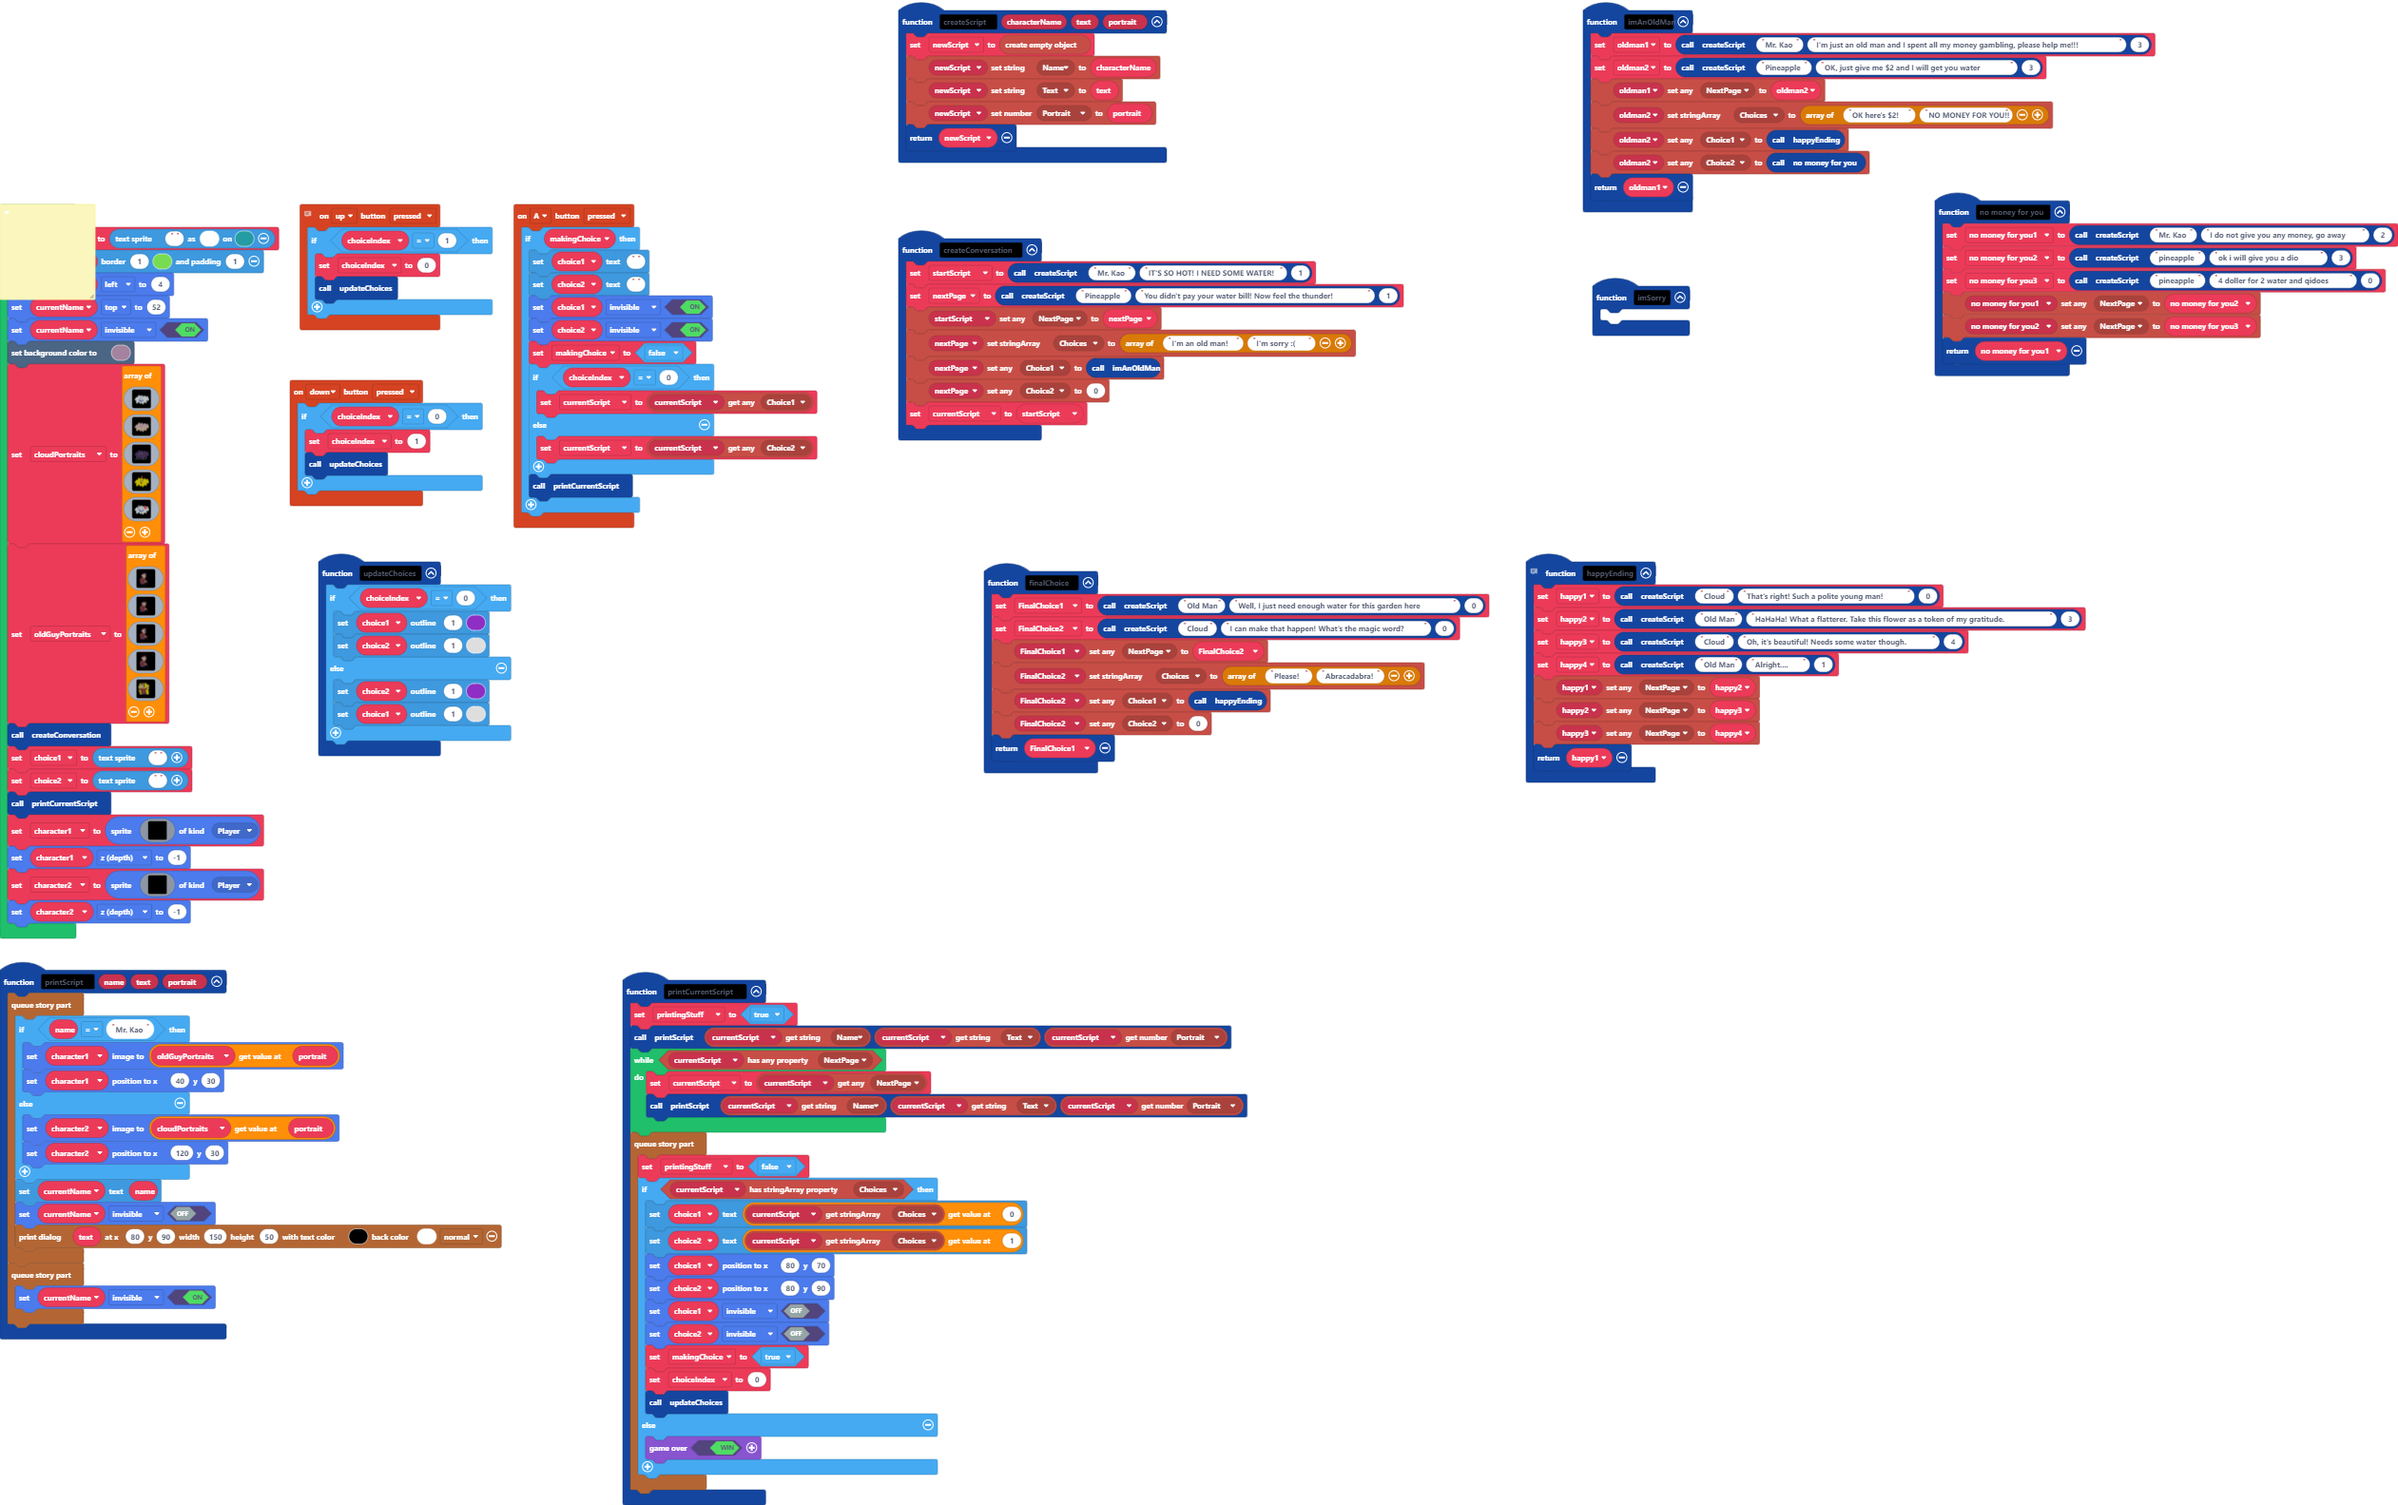
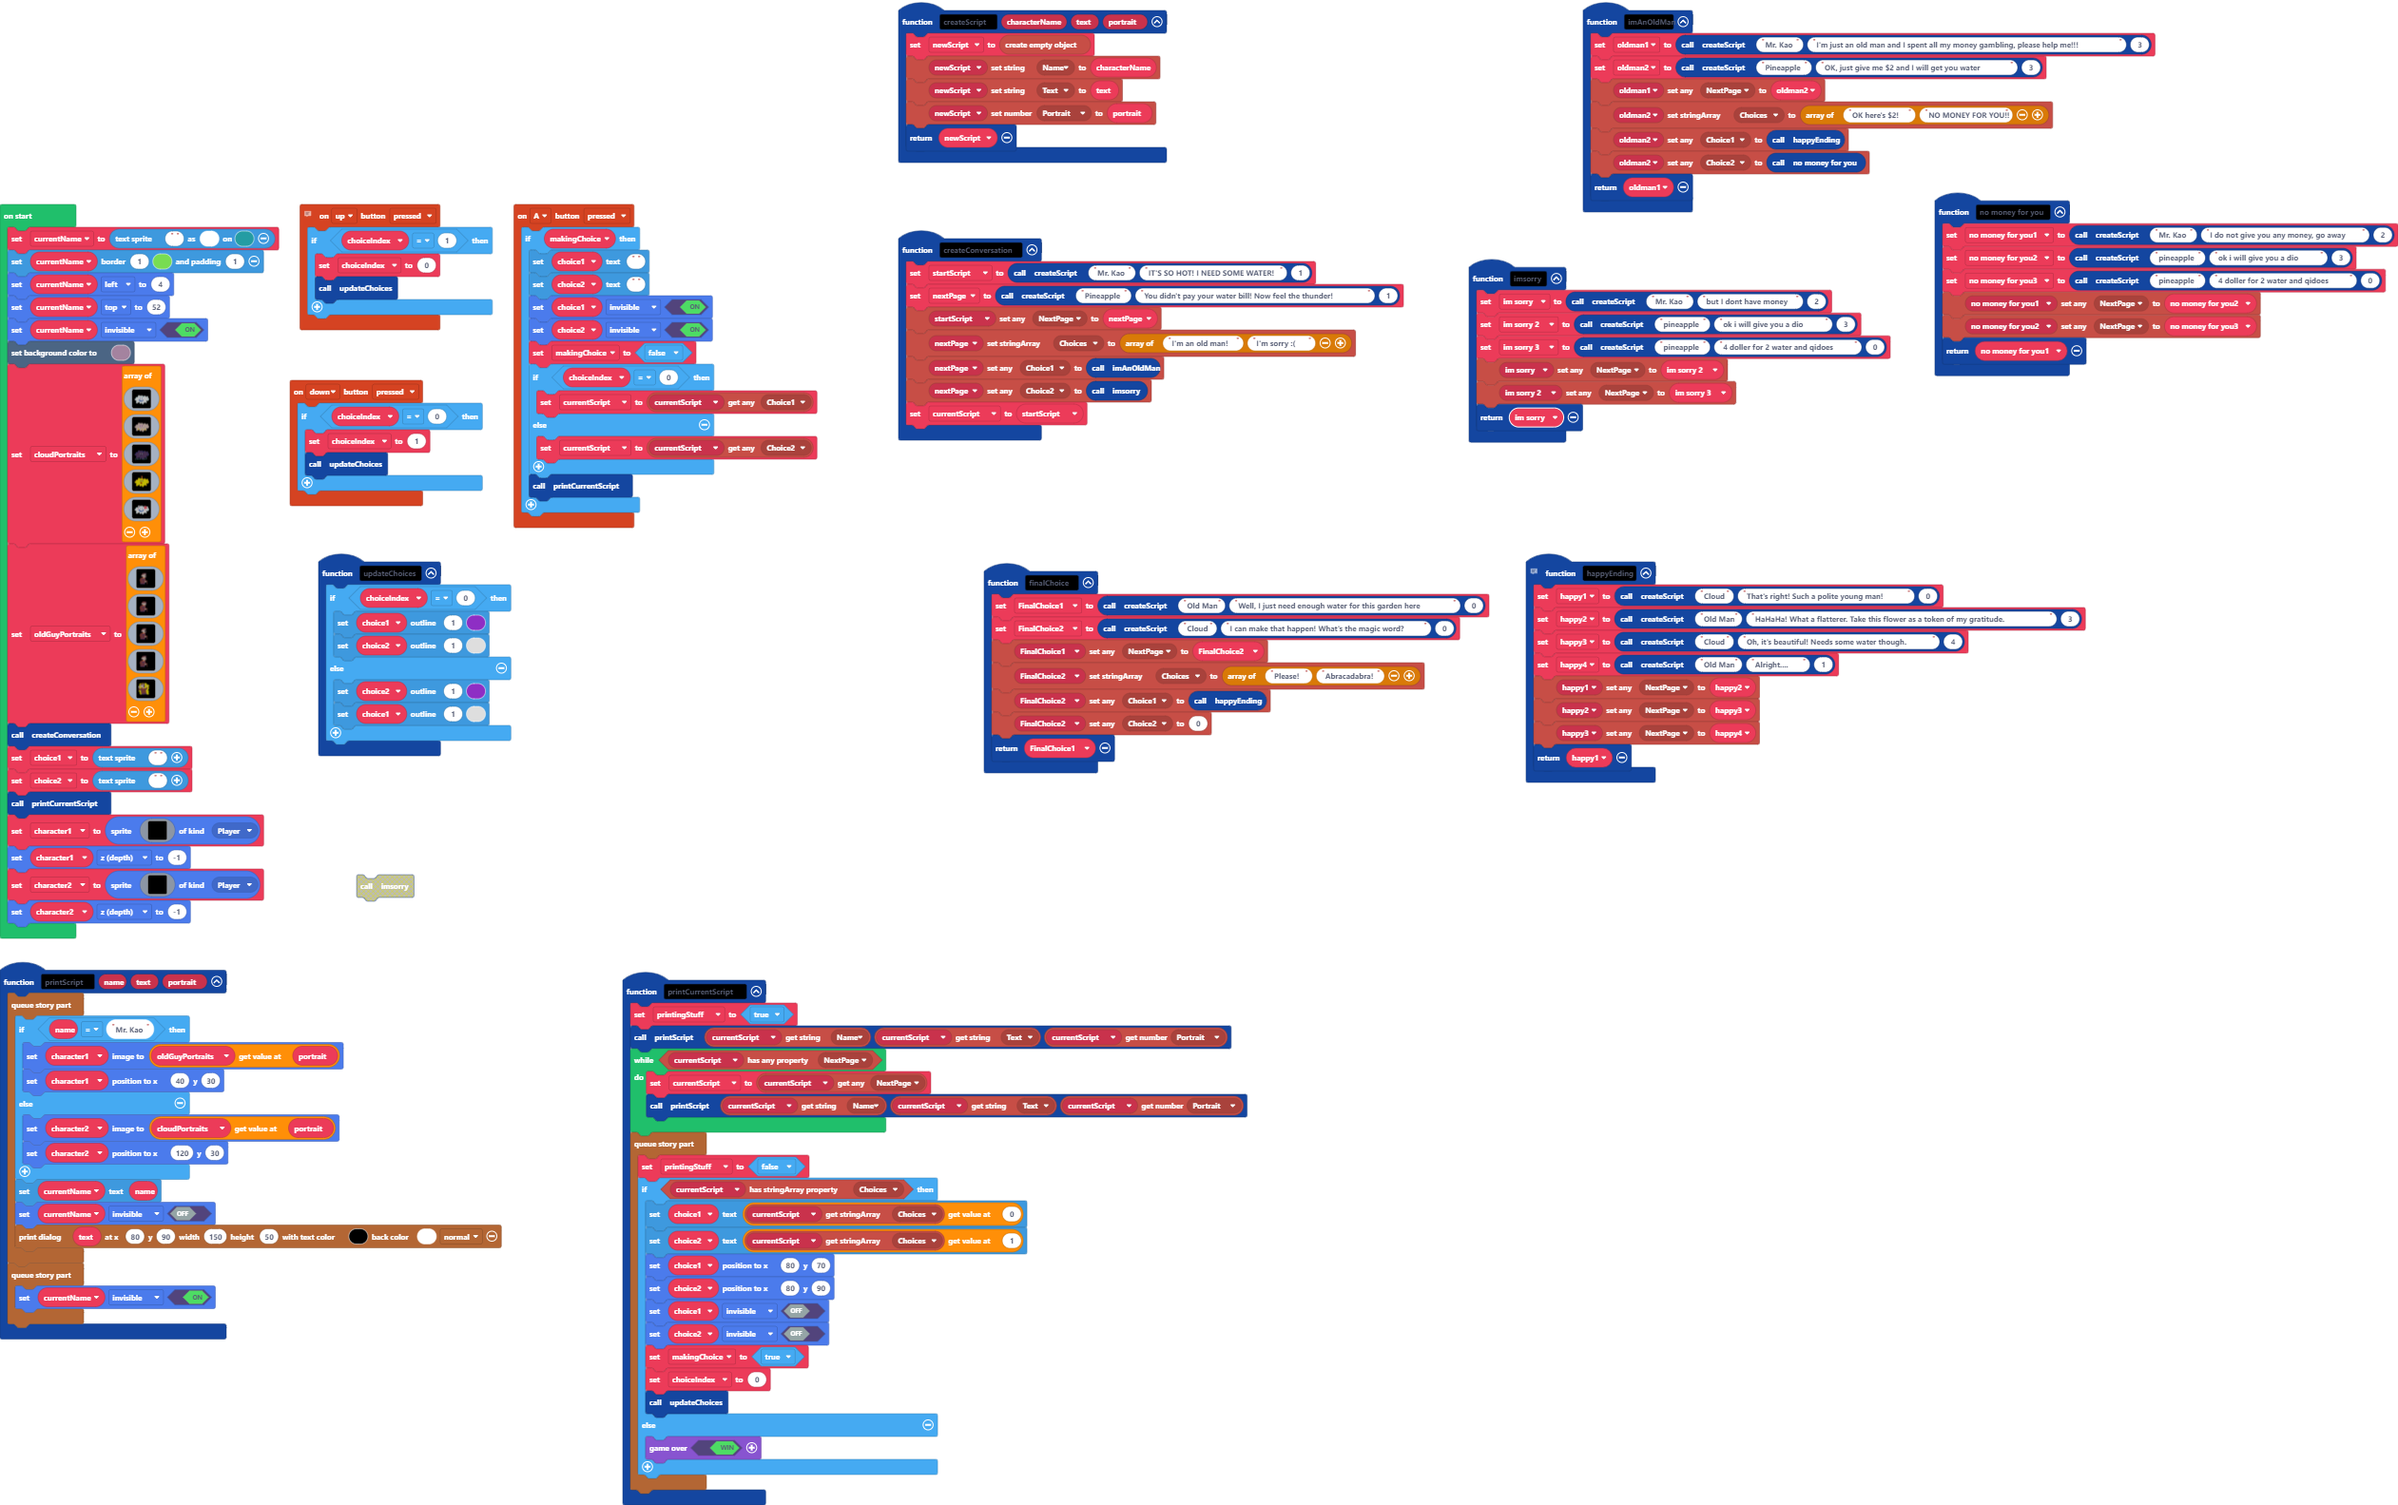
finish Imagesorry

diff --git a/main.ts b/main.ts
@@ -43,9 +43,6 @@ function happyEnding () {
     blockObject.setAnyProperty(happy3, AnyProp.NextPage, happy4)
     return happy1
 }
-function imSorry () {
-	
-}
 // microsoft/arcade-block-objects
 // 
 // riknoll/arcade-story
@@ -69,7 +66,7 @@ function createConversation () {
     blockObject.setAnyProperty(startScript, AnyProp.NextPage, nextPage)
     blockObject.setStringArrayProperty(nextPage, StrArrayProp.Choices, ["I'm an old man!", "I'm sorry :("])
     blockObject.setAnyProperty(nextPage, AnyProp.Choice1, imAnOldMan())
-    blockObject.setAnyProperty(nextPage, AnyProp.Choice2, 0)
+    blockObject.setAnyProperty(nextPage, AnyProp.Choice2, imsorry())
     currentScript = startScript
 }
 function printScript (name: string, text: string, portrait: number) {
@@ -146,6 +143,14 @@ function printCurrentScript () {
         }
     })
 }
+function imsorry () {
+    im_sorry = createScript("Mr. Kao", "but I dont have money", 2)
+    im_sorry_2 = createScript("pineapple", "ok i will give you a dio", 3)
+    im_sorry_3 = createScript("pineapple", "4 doller for 2 water and qidoes", 0)
+    blockObject.setAnyProperty(im_sorry, AnyProp.NextPage, im_sorry_2)
+    blockObject.setAnyProperty(im_sorry_2, AnyProp.NextPage, im_sorry_3)
+    return im_sorry
+}
 function imAnOldMan () {
     oldman1 = createScript("Mr. Kao", "I'm just an old man and I spent all my money gambling, please help me!!!", 3)
     oldman2 = createScript("Pineapple", "OK, just give me $2 and I will get you water", 3)
@@ -168,11 +173,12 @@ function createScript (characterName: string, text: string, portrait: number) {
     blockObject.setNumberProperty(newScript, NumProp.Portrait, portrait)
     return newScript
 }
-/**
- */
 let newScript: blockObject.BlockObject = null
 let oldman2: blockObject.BlockObject = null
 let oldman1: blockObject.BlockObject = null
+let im_sorry_3: blockObject.BlockObject = null
+let im_sorry_2: blockObject.BlockObject = null
+let im_sorry: blockObject.BlockObject = null
 let printingStuff = false
 let FinalChoice2: blockObject.BlockObject = null
 let FinalChoice1: blockObject.BlockObject = null
